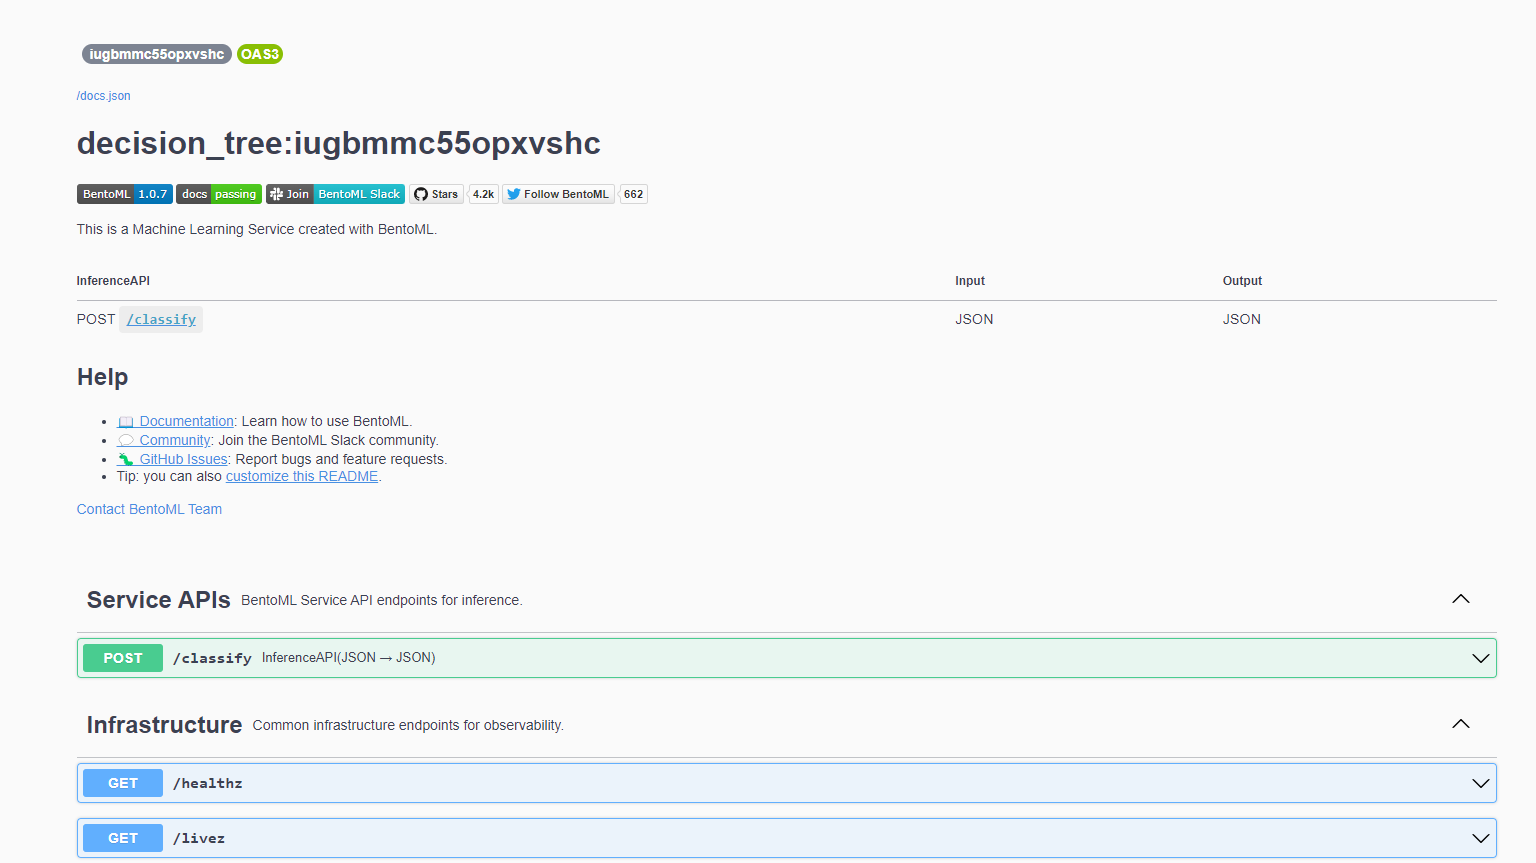
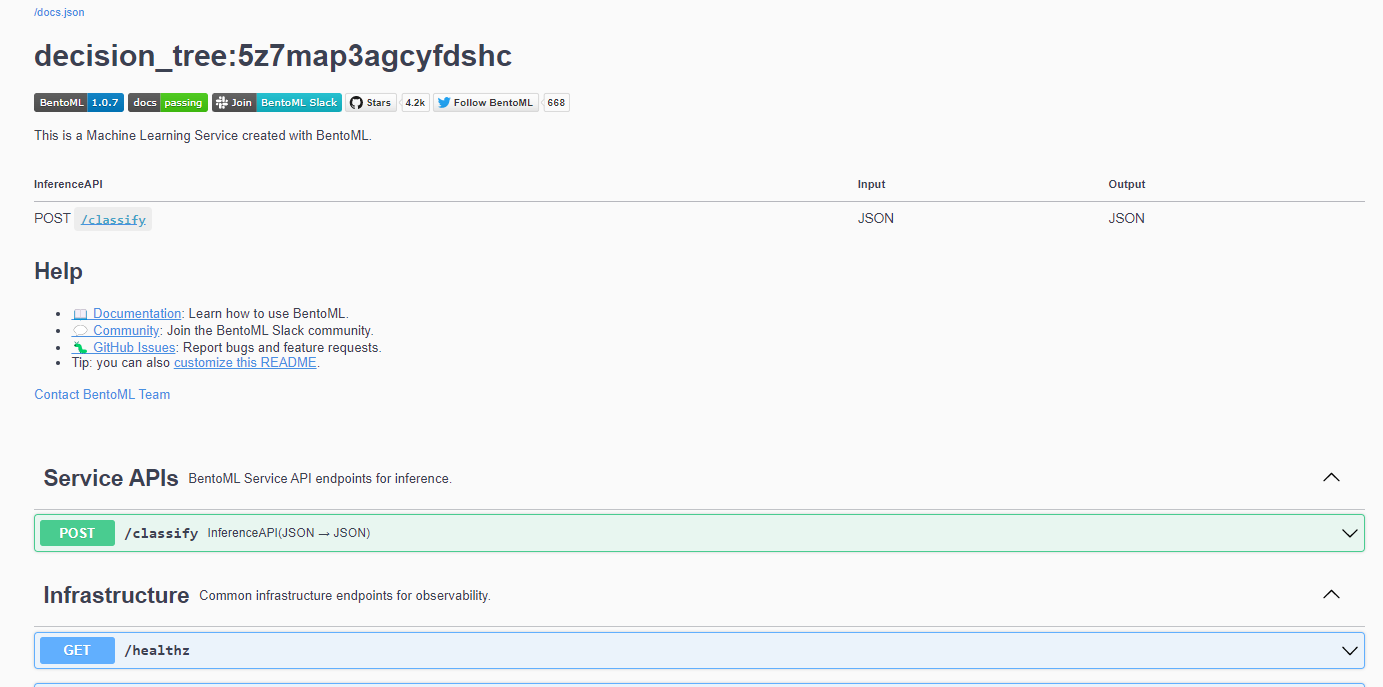
add requirements.txt

diff --git a/projects/midterm_project/README.md b/projects/midterm_project/README.md
@@ -46,7 +46,7 @@ It factors in our unique and proprietary predictions of how long a user will rem
 - `bentofile.yaml`:This contains the requirements for this project. 
 - `service.py`: This contains the code used to create and serve bentoml. Where service is created.
 - `Data Folder`: Contains the data used in the project.
-- `midterm_project.ipynb`: This contains the experimental data analysis and model comparisons.
+- `midterm_project_EDA.ipynb`: This contains the experimental data analysis and model comparisons.
 - `train.py`: Contains code required to engineer data and train model. In the script, there is also the code to create bentoml.
 ``` python
 tag = bentoml.sklearn.save_model('decision_tree', dt, 
@@ -61,7 +61,7 @@ tag = bentoml.sklearn.save_model('decision_tree', dt,
 ```
 To replicate the whole project, check the next section.
 
-- locustfile.py: Contains code for testing high performance of the created ml deployment.
+- `locustfile.py`: Contains code for testing high performance of the created ml deployment.
   
 ## Steps to create (reproduce) project
 ---------------------------------------
@@ -87,20 +87,35 @@ Open your browser to the address as shown in the terminal picture above. Click o
         ![](images/2.%20UI_execute2.png)
         ![](images/2b.%20UI_execute3.png)
                                                                                                           
-### How to deploy
-Use
-`bentoml build`
+### Build your bento
+Execute `bentoml build` and a bento will be built instantly. Your terminal will look like:
+    ![](images/2c.%20bentoml%20build.png)
+A new tag is created seperate from the tag created when the train.py file was ran. This is because bento creates a new tahg every instance and seperates model and bento tags.
 
+### Containerize and deploy the prediction service
+Use `bentoml containerize decision_tree:latest` to containerize and deploy the bento production service.
+    ![](images/3.%20terminal_containerize.png)
 
-## deploying the prediction service 
-`bentoml containerize decision_tree:latest`
+In the terminal, the instructions are shown on how to run serve.
 
-### run serve shows next
-`docker run -it --rm -p 3000:3000 decision_tree:iugbmmc55opxvshc serve --production`
+### Docker run serve shows
+RUn the instruction shown after. For example:
+`docker run -it --rm -p 3000:3000 decision_tree:5z7map3agcyfdshc serve --production` where `5z7map3agcyfdshc` is the name of the tag.
+Once it is completed, go to the listed webad=ress (the one you opened earlier). You would notice that the tag is now beside the decison tree name.
+        ![](image/../images/4.%20local_deployed.png)
 
-## High Performance serving: Locust
+You have successfully deployed your model service!
+
+### High Performance serving: Locust 
+Locust helps to simulate influx of users. The user and spawn rate can be adjusted to see how the service would respond. This step is optional but ehlps understand bento as a process better.
+
 Run
-`bentoml serve --production` and `locust -H http://localhost:3000` simultaneously in differently terminals. The former comes first.
+`bentoml serve --production` and `locust -H http://localhost:3000` simultaneously in differently terminals. The former comes first. Input how may Users and the spawn rate (users started per second. An example is 10 users at a spawn rate of 2. 
+        ![](images/5.%20Locust%20spawn.png)
+        ![](images/6.%20Locust%20spawn2.png)
+Charts can also be viewed on Locust:
+        ![](images/7.%20Locust%20chart.png)
+
 
 ## Deploy to heroku
 Download heroku cli through this link:
